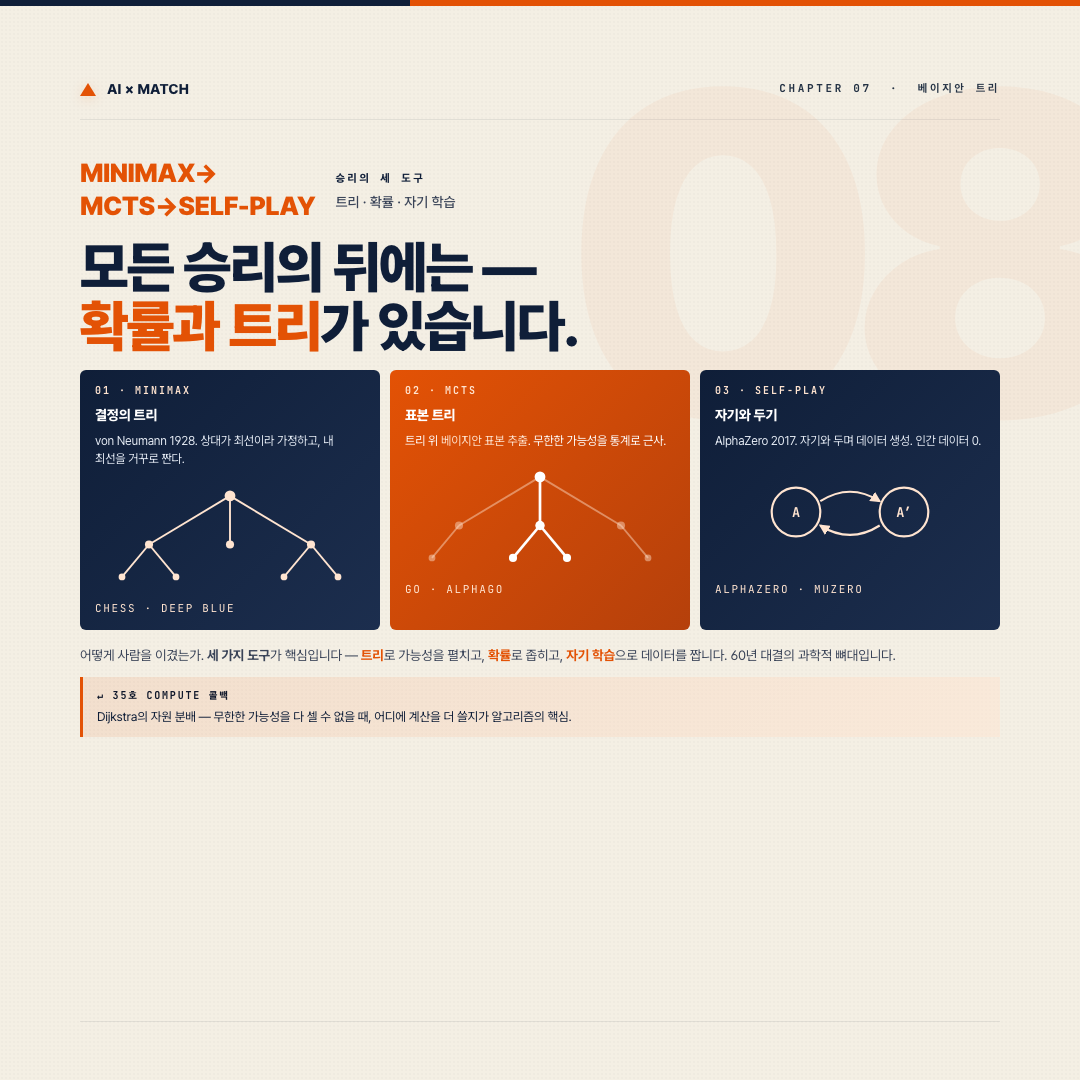
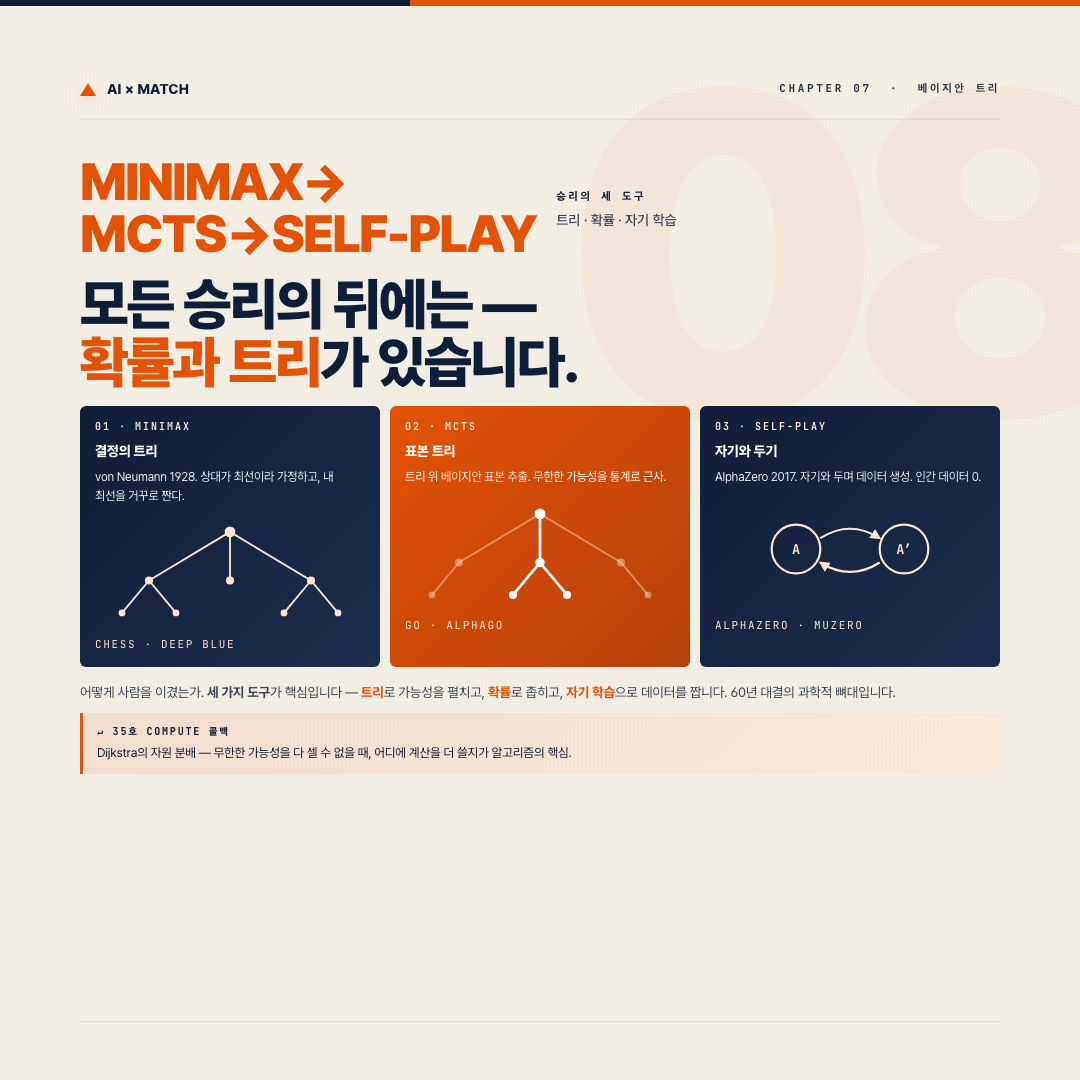
fix(47-match): era year 긴 텍스트 모바일 오버플로 수정
- magazine.css: .year-long 클래스 추가 — !important clamp 오버라이드
- 08-science: year-long 클래스 적용, 불필요한 인라인 style 제거

Changed region(s): [[0.0611, 0.1528, 0.9472, 0.55], [0.0611, 0.4889, 0.9472, 0.7028], [0.2444, 0.4889, 0.3056, 0.55]]

diff --git a/47-cards-match/08-science.html b/47-cards-match/08-science.html
@@ -11,7 +11,7 @@
       <div class="chaptertag">CHAPTER 07 &nbsp;&middot;&nbsp; 베이지안 트리</div>
     </div>
     <div class="era">
-      <span class="year" style="font-size:26px; letter-spacing:-0.02em; line-height:1.3;">MINIMAX&rarr;<br />MCTS&rarr;SELF-PLAY</span>
+      <span class="year year-long">MINIMAX&rarr;<br />MCTS&rarr;SELF-PLAY</span>
       <span class="label"><b>승리의 세 도구</b><span class="sub">트리 &middot; 확률 &middot; 자기 학습</span></span>
     </div>
     <h1 class="title sm">모든 승리의 뒤에는 &mdash;<br /><em>확률과 트리</em>가 있습니다.</h1>

diff --git a/styles/magazine.css b/styles/magazine.css
@@ -319,6 +319,12 @@ html {
 .mag-article .era .year {
   font-size: clamp(38px, 4vw, 54px) !important;
 }
+/* 긴 영문 기술 문자열용 (.year-long 클래스로 명시) */
+.mag-article .era .year.year-long {
+  font-size: clamp(18px, 2.2vw, 26px) !important;
+  letter-spacing: -0.01em;
+  line-height: 1.3;
+}
 
 /* Portraits: the card CSS gives them aspect-ratio 4/5 — keep but cap width */
 .mag-article .split {
